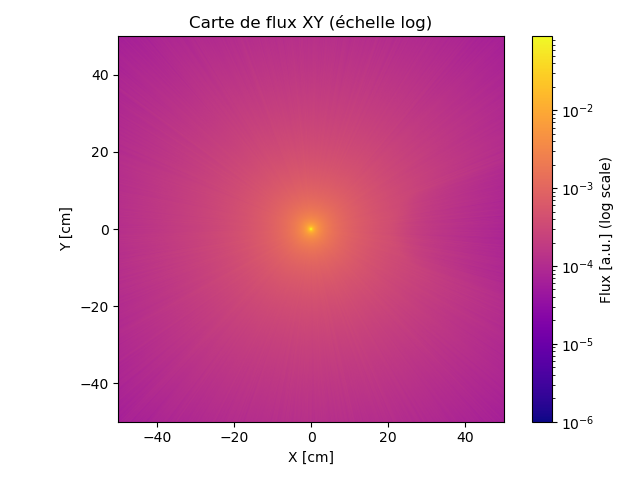
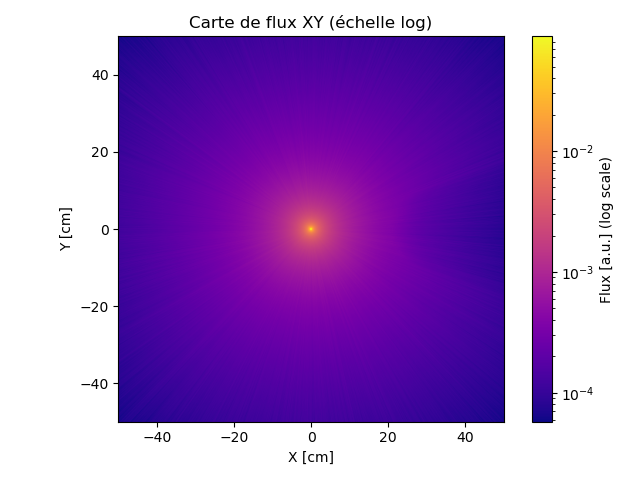
fix:fix_path

diff --git a/src/studies/simulation_cs_137/cesium.py b/src/studies/simulation_cs_137/cesium.py
@@ -1,17 +1,20 @@
 import openmc
 import openmc_plotter
 import os 
+import json
 import matplotlib.pyplot as plt
 from matplotlib.colors import LogNorm
 from pathlib import Path
 import sys 
 import numpy as np
+
+CWD = Path(__file__).parent.resolve()
+
 project_root = Path(__file__).resolve().parents[3]  # remonte de src/studies/simulation_cs_137
 sys.path.append(str(project_root))
 from parameters.parameters_paths import PATH_TO_CROSS_SECTIONS
 
 os.environ["OPENMC_CROSS_SECTIONS"] = PATH_TO_CROSS_SECTIONS
-cwd = Path.cwd()
 
 # Création des matériaux
 cs137 = openmc.Material(name="Cs137")
@@ -58,7 +61,7 @@ source.energy = openmc.stats.Discrete([661_700], [1.0])  # Énergie du photon de
 # source.energy = openmc.data.decay_photon_energy("Ba137_m1")
 source.angle = openmc.stats.Isotropic()  # Distribution isotrope des angles
 source.particle = "photon"
-source.strength = 1E6
+# source.strength = 1E6  # TODO mettre dans une constante ou variable 
 
 # Création des tallies
 
@@ -93,8 +96,6 @@ energy_dep_tally.scores = ["pulse-height"]
 
 tallies.append(energy_dep_tally)
 
-
-
 # Configuration de la simulation
 settings = openmc.Settings()
 batches_number = 10
@@ -126,31 +127,39 @@ tally = sp.get_tally(name="detector_tally")
 flux_mean = tally.mean.flatten()
 flux_std_dev = tally.std_dev.flatten()
 
-print("Flux moyen :", flux_mean[0]/ source.strength)
+print("Flux moyen :", flux_mean[0]/ source.strength)  # TODO remplacer par constante 
 print("Écart-type :", flux_std_dev[0]/ source.strength)
+
+
+results = {
+    "flux_mean": float(flux_mean[0] / source.strength),
+    "flux_std_dev": float(flux_std_dev[0] / source.strength)
+}
+
+with open(CWD / "results.json", "w") as f:
+    json.dump(results, f, indent=4, ensure_ascii=False)
 
 # Charger le fichier de sortie
 sp = openmc.StatePoint(f"statepoint.{batches_number}.h5")
-
 
 ### mesh tallty ####
 # Récupérer le tally du maillage
 tally = sp.get_tally(name='flux_mesh')
 flux_data = tally.mean.reshape((500, 500))
-flux_data /= source.strength
+flux_data /= source.strength   # TODO remplacerr par constante 
 # Affichage avec échelle logarithmique
 plt.imshow(flux_data, 
            origin='lower', 
            extent=[-50, 50, -50, 50], 
            cmap='plasma',
-           norm=LogNorm(vmin=1e-6, vmax=flux_data.max()))  # vmin > 0 obligatoire
+           norm=LogNorm(vmin=np.min(flux_data[flux_data!=0]), vmax=flux_data.max()))  # vmin > 0 obligatoire
 
 plt.colorbar(label='Flux [a.u.] (log scale)')
 plt.title('Carte de flux XY (échelle log)')
 plt.xlabel('X [cm]')
 plt.ylabel('Y [cm]')
 plt.tight_layout()
-plt.savefig(cwd / "mesh_tally.png")
+plt.savefig(CWD / "mesh_tally.png")
 plt.show()
 
 ### spectre ####
@@ -160,7 +169,7 @@ pulse_height_values = tally.get_values(scores=['pulse-height']).flatten()
 
 # Récupération des énergies moyennes par bin (approximation)
 energy_bin_centers = energy_bins[1:] + 0.5 * (energy_bins[1] - energy_bins[0])
-
+energy_bin_centers /= 1e6
 # Moyenne et écart-type de l'énergie déposée
 spectrum = tally.mean.flatten()
 spectrum_std = tally.std_dev.flatten()
@@ -173,6 +182,5 @@ plt.ylabel("Occurence")
 plt.title("Spectre d'énergie déposée dans le détecteur")
 plt.grid(True)
 plt.tight_layout()
-plt.savefig(cwd / "spectrum.png")
+plt.savefig(CWD / "spectrum.png")
 plt.show()
-
